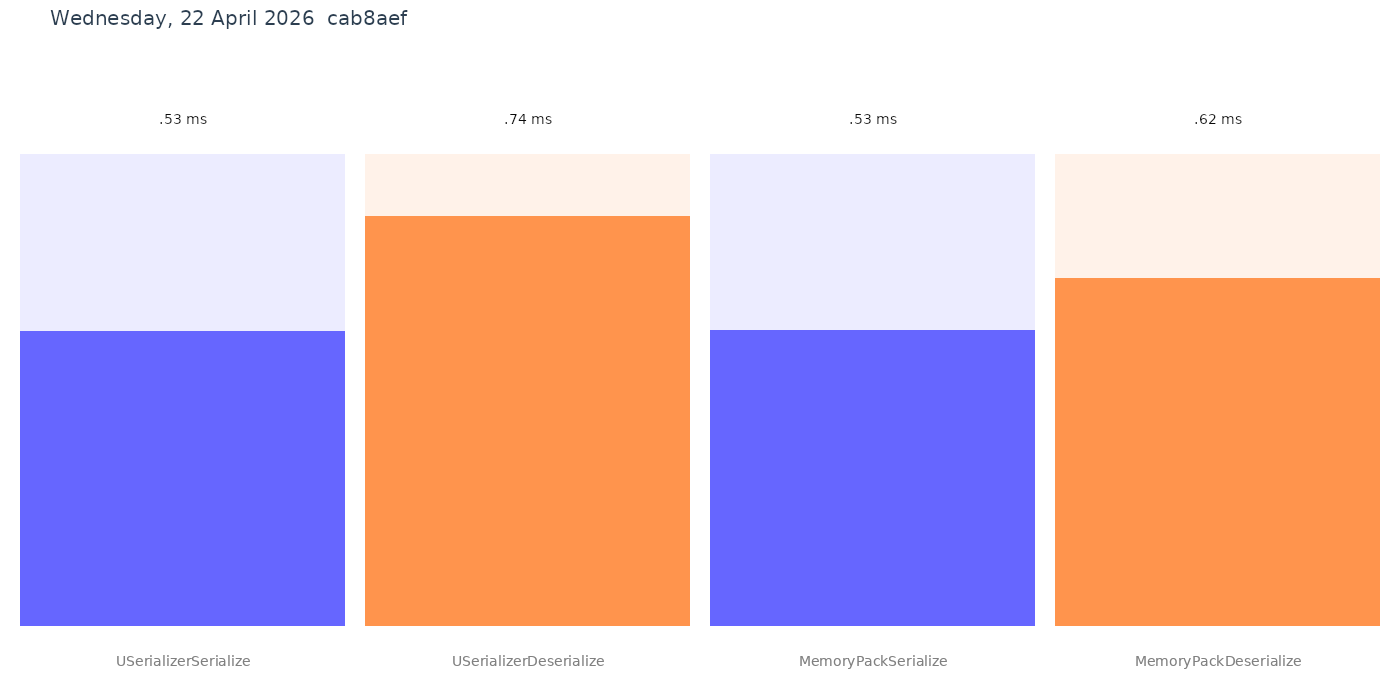
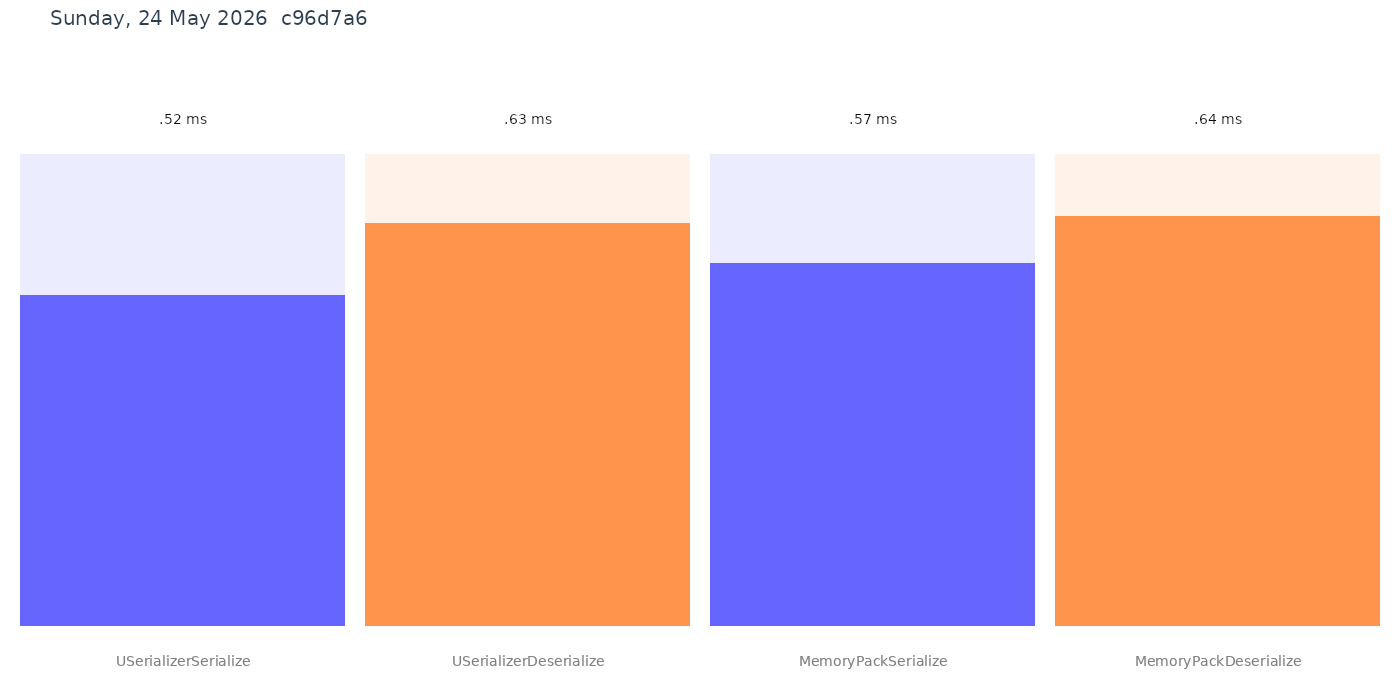
deploy: c96d7a695d69ecc83c38f669c04be988dd905bda

diff --git a/performance.md b/performance.md
@@ -2,17 +2,17 @@
 
 BenchmarkDotNet=v0.12.1, OS=ubuntu 24.04
 AMD EPYC 9V74, 1 CPU, 4 logical and 2 physical cores
-.NET Core SDK=10.0.203
-  [Host]   : .NET Core 10.0.7 (CoreCLR 10.0.726.21808, CoreFX 10.0.726.21808), X64 RyuJIT
-  ShortRun : .NET Core 10.0.7 (CoreCLR 10.0.726.21808, CoreFX 10.0.726.21808), X64 RyuJIT
+.NET Core SDK=10.0.300
+  [Host]   : .NET Core 10.0.8 (CoreCLR 10.0.826.23019, CoreFX 10.0.826.23019), X64 RyuJIT
+  ShortRun : .NET Core 10.0.8 (CoreCLR 10.0.826.23019, CoreFX 10.0.826.23019), X64 RyuJIT
 
 Job=ShortRun  IterationCount=3  LaunchCount=1  
 WarmupCount=3  
 
 ```
-|                 Method |     Mean |       Error |   StdDev |
-|----------------------- |---------:|------------:|---------:|
-|   USerializerSerialize | 529.4 μs |    17.30 μs |  0.95 μs |
-| USerializerDeserialize | 736.4 μs |   239.08 μs | 13.10 μs |
-|    MemoryPackSerialize | 531.8 μs | 1,770.52 μs | 97.05 μs |
-|  MemoryPackDeserialize | 623.7 μs |    78.74 μs |  4.32 μs |
+|                 Method |     Mean |     Error |   StdDev |
+|----------------------- |---------:|----------:|---------:|
+|   USerializerSerialize | 515.2 μs |  18.25 μs |  1.00 μs |
+| USerializerDeserialize | 628.3 μs | 171.27 μs |  9.39 μs |
+|    MemoryPackSerialize | 566.1 μs | 540.01 μs | 29.60 μs |
+|  MemoryPackDeserialize | 639.6 μs |  90.90 μs |  4.98 μs |
